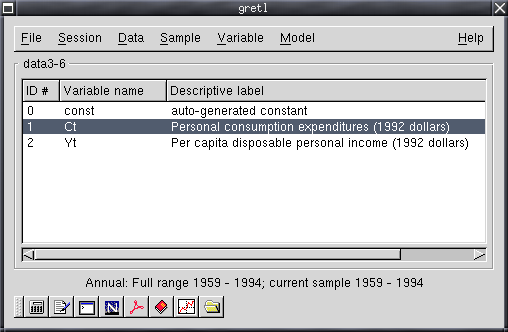
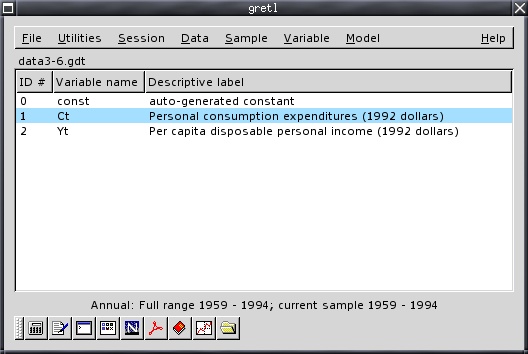
improve window-sizing; work on manual

diff --git a/gui2/gretl.c b/gui2/gretl.c
@@ -1216,13 +1216,13 @@ static GtkWidget *make_main_window (int gui_get_data)
 	_("Variable name"), 
 	_("Descriptive label")
     };
-    int listbox_data_width = 500;
-    int listbox_file_height = 300;
+    int mainwin_width = 520;
+    int mainwin_height = 400;
 
     gui_scale = get_gui_scale();
 
-    listbox_data_width *= gui_scale;
-    listbox_file_height *= gui_scale;
+    mainwin_width *= gui_scale;
+    mainwin_height *= gui_scale;
 
     mdata->data = NULL;  
     mdata->listbox = NULL;
@@ -1245,6 +1245,8 @@ static GtkWidget *make_main_window (int gui_get_data)
 		      G_CALLBACK (destroy), NULL);
 
     gtk_window_set_title(GTK_WINDOW (mdata->w), "gretl");
+    gtk_window_set_default_size(GTK_WINDOW (mdata->w), 
+				mainwin_width, mainwin_height);
     gtk_window_set_resizable(GTK_WINDOW (mdata->w), TRUE);
 #ifndef G_OS_WIN32
     g_signal_connect_after(G_OBJECT(mdata->w), "realize", 
@@ -1269,8 +1271,6 @@ static GtkWidget *make_main_window (int gui_get_data)
     gtk_widget_show(dlabel);
 
     box = gtk_vbox_new (FALSE, 0);
-    gtk_widget_set_size_request(box, listbox_data_width, listbox_file_height);
-    /* gtk_container_set_border_width (GTK_CONTAINER (box), 5); */
     align = gtk_alignment_new(0, 0, 0, 0);
     gtk_box_pack_start(GTK_BOX(box), align, FALSE, FALSE, 0);
     gtk_widget_show(align);

diff --git a/gui2/database.c b/gui2/database.c
@@ -544,6 +544,7 @@ void display_db_series_list (int action, char *fname, char *buf)
     GtkWidget *main_vbox;
     char *titlestr;
     windata_t *dbwin;
+    int db_width = 700, db_height = 320;
     int err = 0;
 
     dbwin = mymalloc(sizeof *dbwin);
@@ -561,6 +562,10 @@ void display_db_series_list (int action, char *fname, char *buf)
     } else {
 	titlestr = fname;
     }
+
+    db_width *= gui_scale;
+    db_height *= gui_scale;
+    gtk_window_set_default_size(GTK_WINDOW(dbwin->w), db_width, db_height);
 
     gtk_window_set_title(GTK_WINDOW(dbwin->w), titlestr);
 
@@ -808,10 +813,6 @@ static GtkWidget *database_window (windata_t *ddata)
     };
     GtkWidget *box;
     int cols = 3;
-    int full_width = 750, listbox_height = 320;
-
-    full_width *= gui_scale;
-    listbox_height *= gui_scale;
 
     box = gtk_vbox_new (FALSE, 0);
 
@@ -821,7 +822,6 @@ static GtkWidget *database_window (windata_t *ddata)
 		      G_CALLBACK(popup_menu_handler), 
 		      (gpointer) ddata->popup);
 
-    gtk_widget_set_size_request (box, full_width, listbox_height);
     gtk_widget_show (box);
 
     return box;

diff --git a/plugin/progress_bar-2.c b/plugin/progress_bar-2.c
@@ -41,7 +41,6 @@ static void destroy_progress (GtkWidget *widget, ProgressData *pdata)
     pdata->window = NULL;
     g_free(pdata);
     pdata = NULL;
-    fprintf(stderr, "Done destroy progress, pdata NULL\n");
 }
 
 /* ........................................................... */
